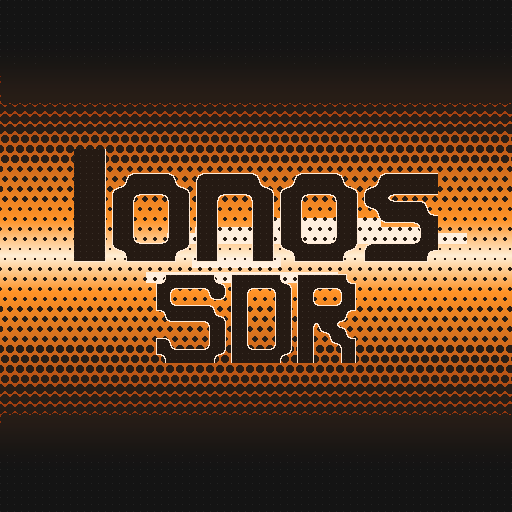
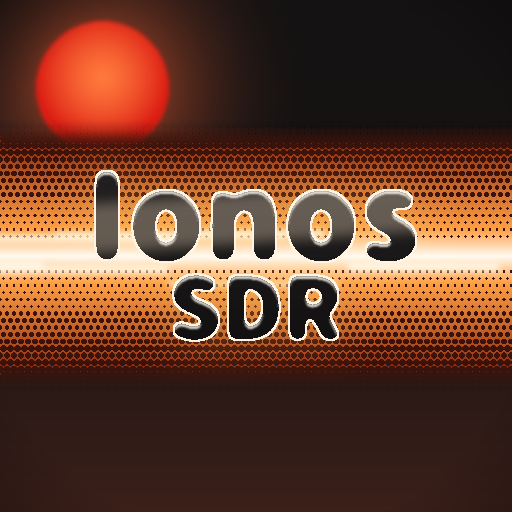
Wordmark v2: rising sun, smooth lettering with gloss and glow (generator script)

diff --git a/docs/img/make_logo.py b/docs/img/make_logo.py
@@ -1,135 +1,143 @@
 #!/usr/bin/env python3
-"""Render the Ionos SDR wordmark: retro halftone band with pixel (C64-style)
-knock-out lettering. Outputs banner (README header), avatar and a social card.
-Pure Pillow, no fonts required.  Usage: python3 make_logo.py [outdir]
+"""Render the Ionos SDR wordmark: a rising red sun over a warm halftone band,
+smooth rounded lettering knocked out of the band, with glints and glow.
+Outputs banner.png (README header), avatar.png, social_card.png.
+Pillow only. Usage: python3 make_logo.py [outdir]
 """
 import sys, math, random
-from PIL import Image, ImageDraw, ImageFilter
+from PIL import Image, ImageDraw, ImageFilter, ImageFont, ImageChops
 
-# --- 8-row pixel font (rows 0..7; lowercase sits on rows 2..7) ------------
-GLYPHS = {
- 'I': ["##","##","##","##","##","##","##","##"],
- 'i': [".#.","...",".#.",".#.",".#.",".#.",".#.",".#."],
- 'o': [".....",".....",".###.","#...#","#...#","#...#","#...#",".###."],
- 'n': [".....",".....","####.","#...#","#...#","#...#","#...#","#...#"],
- 's': [".....",".....",".####","#....",".###.","....#","....#","####."],
- 'S': [".####.","#....#","#.....",".####.",".....#",".....#","#....#",".####."],
- 'D': ["####.","#...#","#...#","#...#","#...#","#...#","#...#","####."],
- 'R': ["####.","#...#","#...#","####.","#.#..","#..#.","#...#","#...#"],
- ' ': ["..","..","..","..","..","..","..",".."],
-}
-def norm(g):
-    w = max(len(r) for r in g)
-    return [r.ljust(w, '.') for r in g]
+FONT = "/usr/share/fonts/opentype/noto/NotoSansCJK-Black.ttc"
+DARK = (20, 18, 18)
 
-def text_mask(text, px, gap=1):
-    """Return an 'L' image with the pixel text at px pixels per cell."""
-    glyphs = [norm(GLYPHS[c]) for c in text]
-    cols = sum(len(g[0]) for g in glyphs) + gap * (len(glyphs) - 1)
-    img = Image.new("L", (cols * px, 8 * px), 0)
+def font(size):
+    return ImageFont.truetype(FONT, size, index=0)
+
+def text_mask(text, size, rounding=0.10):
+    f = font(size)
+    x0, y0, x1, y1 = f.getbbox(text)
+    pad = size // 4
+    img = Image.new("L", (x1 - x0 + 2 * pad, y1 - y0 + 2 * pad), 0)
+    ImageDraw.Draw(img).text((pad - x0, pad - y0), text, font=f, fill=255)
+    r = max(1, int(size * rounding))
+    img = img.filter(ImageFilter.GaussianBlur(r * 0.5)).point(lambda v: 255 if v > 128 else 0)
+    return img.crop(img.getbbox())
+
+def radial(w, h, cx, cy, r_in, r_out, col_in, col_out, power=1.0):
+    """Radial gradient (RGB) + alpha mask (L), 1 = inside."""
+    img = Image.new("RGB", (w, h), col_out)
+    mask = Image.new("L", (w, h), 0)
+    px = img.load(); pm = mask.load()
+    for j in range(h):
+        for i in range(w):
+            d = math.hypot(i - cx, j - cy)
+            t = (d - r_in) / max(1.0, (r_out - r_in))
+            t = min(1.0, max(0.0, t)) ** power
+            px[i, j] = tuple(int(a + (b - a) * t) for a, b in zip(col_in, col_out))
+            pm[i, j] = int(255 * (1 - t))
+    return img, mask
+
+def sky(w, h):
+    img = Image.new("RGB", (w, h), DARK)
     d = ImageDraw.Draw(img)
-    x = 0
-    for g in glyphs:
-        for r, row in enumerate(g):
-            for c, ch in enumerate(row):
-                if ch == '#':
-                    x0, y0 = (x + c) * px, r * px
-                    d.rectangle([x0, y0, x0 + px - 1, y0 + px - 1], fill=255)
-        x += len(g[0]) + gap
-    # round the corners a little (C64 chunky but soft)
-    img = img.filter(ImageFilter.MaxFilter(int(px * 0.45) | 1))
-    img = img.filter(ImageFilter.GaussianBlur(px * 0.30)).point(lambda v: 255 if v > 128 else 0)
+    for y in range(h):
+        t = y / h
+        d.line([(0, y), (w, y)], fill=(int(20 + 40 * t ** 2), int(18 + 14 * t ** 2), int(18 + 8 * t ** 2)))
     return img
 
-def halftone_band(w, h, band_y0, band_y1, seed=3):
-    """Orange band with a white-hot core, screened by dark halftone dots that
-    grow towards the band edges; dark dotted background outside."""
+def sun(img, cx, cy, r):
+    w, h = img.size
+    glow, gm = radial(w, h, cx, cy, r * 0.6, r * 3.2, (255, 90, 40), (0, 0, 0), power=0.9)
+    img = Image.composite(ImageChops.screen(img, glow), img, gm.point(lambda v: int(v * 0.55)))
+    disc, _ = radial(w, h, cx, cy - r * 0.15, 0, r, (255, 120, 60), (220, 30, 20), power=1.4)
+    edge = Image.new("L", (w, h), 0)
+    ImageDraw.Draw(edge).ellipse([cx - r, cy - r, cx + r, cy + r], fill=255)
+    edge = edge.filter(ImageFilter.GaussianBlur(r * 0.03))
+    return Image.composite(disc, img, edge)
+
+def band(img, y0, y1, seed=3):
+    w, h = img.size
     rnd = random.Random(seed)
-    bg = Image.new("RGB", (w, h), (22, 22, 22))
-    d = ImageDraw.Draw(bg)
-    step = 7
-    for y in range(0, h, step):
-        for x in range(0, w, step):
-            d.point((x, y), fill=(38, 38, 38))
-    core = (band_y0 + band_y1) / 2
-    half = (band_y1 - band_y0) / 2
-    # base gradient: white-hot core -> orange -> dark red at the edges
-    for y in range(band_y0, band_y1):
+    layer = Image.new("RGB", (w, h), (0, 0, 0))
+    d = ImageDraw.Draw(layer)
+    core = (y0 + y1) / 2; half = (y1 - y0) / 2
+    for y in range(y0, y1):
         t = max(0.0, 1 - abs((y - core) / half))
-        if t > 0.80:
-            k = (t - 0.80) / 0.20
-            col = (int(255), int(150 + 100 * k), int(40 + 190 * k))
+        if t > 0.78:
+            k = (t - 0.78) / 0.22
+            col = (255, int(160 + 90 * k), int(70 + 170 * k))
         else:
-            k = t / 0.80
-            col = (int(120 + 135 * k), int(30 + 120 * k), int(8 + 32 * k))
+            k = t / 0.78
+            col = (int(130 + 125 * k), int(35 + 125 * k), int(10 + 60 * k))
         d.line([(0, y), (w, y)], fill=col)
-    # horizontal light streaks in the core
-    for i in range(6):
-        y = core + rnd.uniform(-half * 0.18, half * 0.18)
-        x0 = rnd.uniform(0, w * 0.6); ln = rnd.uniform(w * 0.15, w * 0.5)
-        d.line([(x0, y), (x0 + ln, y)], fill=(255, 250, 240), width=int(half * 0.06) + 1)
-    # dark halftone screen: dot radius grows with distance from the core
-    cell = 10
-    row = 0
-    for y in range(band_y0 - cell, band_y1 + cell, cell):
+    cell = 7; row = 0
+    for y in range(y0 - cell, y1 + cell, cell):
         row += 1
         for x in range(-cell, w + cell, cell):
             t = max(0.0, min(1.0, 1 - abs((y + cell / 2 - core) / half)))
-            r = cell * (0.62 - 0.55 * t ** 0.8)
-            if r < 0.6:
+            r = cell * (0.55 - 0.52 * t ** 0.7)
+            if r < 0.5:
                 continue
             cx = x + cell / 2 + (cell / 2 if row % 2 else 0)
-            cy = y + cell / 2
-            d.ellipse([cx - r, cy - r, cx + r, cy + r], fill=(22, 22, 22))
-    return bg
+            d.ellipse([cx - r, y + cell / 2 - r, cx + r, y + cell / 2 + r], fill=(60, 18, 10))
+    m = Image.new("L", (w, h), 0)
+    ImageDraw.Draw(m).rectangle([0, y0, w, y1], fill=255)
+    m = m.filter(ImageFilter.GaussianBlur(half * 0.06))
+    img = Image.composite(layer, img, m)
+    g = Image.new("RGB", (w, h), (0, 0, 0)); gd = ImageDraw.Draw(g)
+    for i in range(7):
+        y = core + rnd.uniform(-half * 0.35, half * 0.35)
+        x0 = rnd.uniform(-w * 0.1, w * 0.8); ln = rnd.uniform(w * 0.12, w * 0.45)
+        wd = max(2, int(half * rnd.uniform(0.03, 0.09)))
+        gd.line([(x0, y), (x0 + ln, y)], fill=(255, 235, 200), width=wd)
+    g = g.filter(ImageFilter.GaussianBlur(3))
+    return ImageChops.screen(img, g.point(lambda v: int(v * 0.85)))
 
-def stacked_mask(lines, px, vgap=1):
-    masks = [text_mask(t, p) for t, p in lines]
-    w = max(m.size[0] for m in masks)
-    h = sum(m.size[1] for m in masks) + vgap * px * (len(masks) - 1)
-    out = Image.new("L", (w, h), 0)
-    y = 0
+def lettering(img, tm, tx, ty):
+    w, h = img.size
+    full = Image.new("L", (w, h), 0); full.paste(tm, (tx, ty))
+    glow = full.filter(ImageFilter.GaussianBlur(tm.size[1] * 0.12))
+    img = ImageChops.screen(img, Image.composite(Image.new("RGB", (w, h), (255, 150, 60)),
+                                                 Image.new("RGB", (w, h), (0, 0, 0)), glow.point(lambda v: int(v * 0.5))))
+    rim = full.filter(ImageFilter.MaxFilter(5))
+    img = Image.composite(Image.new("RGB", (w, h), (255, 244, 225)), img, rim)
+    body = Image.new("RGB", (w, h), DARK); bd = ImageDraw.Draw(body)
+    for y in range(ty, ty + tm.size[1]):
+        t = (y - ty) / tm.size[1]
+        v = int(34 - 16 * t)
+        bd.line([(0, y), (w, y)], fill=(v, v - 2, v - 2))
+    img = Image.composite(body, img, full)
+    gloss = Image.new("L", (w, h), 0); gd = ImageDraw.Draw(gloss)
+    gy0 = ty + tm.size[1] * 0.12; gy1 = ty + tm.size[1] * 0.42
+    gd.polygon([(0, gy0 + 18), (w, gy0 - 18), (w, gy1 - 18), (0, gy1 + 18)], fill=255)
+    gloss = gloss.filter(ImageFilter.GaussianBlur(6))
+    gloss = ImageChops.multiply(gloss, full).point(lambda v: int(v * 0.32))
+    img = Image.composite(Image.new("RGB", (w, h), (255, 230, 200)), img, gloss)
+    top = ImageChops.subtract(full, ImageChops.offset(full, 0, 3)).filter(ImageFilter.GaussianBlur(1))
+    return Image.composite(Image.new("RGB", (w, h), (255, 250, 240)), img, top.point(lambda v: int(v * 0.9)))
+
+def compose(w, h, size, lines, sun_pos=(0.11, 0.18), sun_r=0.16, band_pad=0.28):
+    masks = [text_mask(t, s) for t, s in lines]
+    tw = max(m.size[0] for m in masks)
+    gap = int(size * 0.12)
+    th = sum(m.size[1] for m in masks) + gap * (len(masks) - 1)
+    tm = Image.new("L", (tw, th), 0); y = 0
     for m in masks:
-        out.paste(m, ((w - m.size[0]) // 2, y)); y += m.size[1] + vgap * px
-    return out
-
-def compose(w, h, text, px, band_pad=0.22, glow=True, lines=None):
-    tm = stacked_mask(lines, px) if lines else text_mask(text, px)
-    tw, th = tm.size
-    band_y0 = int(h / 2 - th / 2 - band_pad * th)
-    band_y1 = int(h / 2 + th / 2 + band_pad * th)
-    img = halftone_band(w, h, band_y0, band_y1)
-    # knock-out text: dark fill with a light rim (pixel outline)
+        tm.paste(m, ((tw - m.size[0]) // 2, y)); y += m.size[1] + gap
     tx, ty = (w - tw) // 2, (h - th) // 2
-    rim = tm.filter(ImageFilter.MaxFilter(int(px * 0.22) | 1))
-    dark = Image.new("RGB", (w, h), (18, 18, 18))
-    light = Image.new("RGB", (w, h), (255, 246, 232))
-    layer = Image.new("L", (w, h), 0); layer.paste(rim, (tx, ty))
-    img = Image.composite(light, img, layer)
-    layer = Image.new("L", (w, h), 0); layer.paste(tm, (tx, ty))
-    img = Image.composite(dark, img, layer)
-    # inner halftone texture inside the letters (subtle)
-    d = ImageDraw.Draw(img)
-    for y in range(ty, ty + th, 6):
-        for x in range(tx, tx + tw, 6):
-            if tm.getpixel((x - tx, y - ty)) > 128:
-                d.point((x, y), fill=(42, 42, 42))
-    if glow:
-        g = Image.new("RGB", (w, h), (0, 0, 0))
-        gd = ImageDraw.Draw(g)
-        gd.rectangle([0, band_y0, w, band_y1], fill=(255, 120, 30))
-        g = g.filter(ImageFilter.GaussianBlur(px * 1.2))
-        img = Image.blend(img, Image.composite(g, img, Image.new("L", (w, h), 60)), 0.35)
-    return img
+    y0 = int(ty - band_pad * th); y1 = int(ty + th + band_pad * th)
+    img = sky(w, h)
+    img = sun(img, int(w * sun_pos[0]), int(h * sun_pos[1]), int(h * sun_r))
+    img = band(img, y0, y1)
+    img = lettering(img, tm, tx, ty)
+    _, vm = radial(w, h, w / 2, h / 2, min(w, h) * 0.55, max(w, h) * 0.85, (0, 0, 0), (0, 0, 0))
+    return Image.composite(img, Image.new("RGB", (w, h), (0, 0, 0)), vm.point(lambda x: 255 - int((255 - x) * 0.45)))
 
 def main():
     out = sys.argv[1] if len(sys.argv) > 1 else "."
-    banner = compose(1600, 420, "IonosSDR", px=21, band_pad=0.18)
-    banner.save(f"{out}/banner.png", optimize=True)
-    avatar = compose(512, 512, "", px=14, band_pad=0.35, lines=[("Ionos", 14), ("SDR", 11)])
-    avatar.save(f"{out}/avatar.png", optimize=True)
-    card = compose(1280, 640, "IonosSDR", px=17, band_pad=0.3)
-    card.save(f"{out}/social_card.png", optimize=True)
+    compose(1600, 420, 190, [("IonosSDR", 190)], sun_pos=(0.10, 0.20), sun_r=0.17, band_pad=0.28).save(f"{out}/banner.png", optimize=True)
+    compose(512, 512, 120, [("Ionos", 120), ("SDR", 84)], sun_pos=(0.20, 0.17), sun_r=0.13, band_pad=0.22).save(f"{out}/avatar.png", optimize=True)
+    compose(1280, 640, 170, [("IonosSDR", 170)], sun_pos=(0.12, 0.20), sun_r=0.15, band_pad=0.32).save(f"{out}/social_card.png", optimize=True)
     print("wrote banner.png avatar.png social_card.png")
 
 if __name__ == "__main__":
